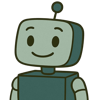
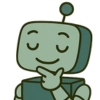
DocMiner 6.0.1 - Robbie animation, theme fixes, aboutDM.pdf
- Added 60x60 transparent Robbie animation (3-frame chin-touching)
- Robbie always visible (static when idle, animates during AI processing)
- Fixed window resize issue - no more shifting when animation starts
- Forced light theme (overrides macOS dark mode)
- Updated to aboutDM.pdf (DocMiner branded tutorial)
- Legacy about.pdf cleanup on startup
- Version bumped to 6.0.1
- Repository renamed from research-buddy to docminer

diff --git a/enhanced_training_interface.py b/enhanced_training_interface.py
@@ -1165,7 +1165,7 @@ class PDFViewer(QWidget):
 class EnhancedTrainingInterface(QMainWindow):
     def __init__(self):
         super().__init__()
-        self.setWindowTitle("DocMiner 5.2 - Professional Positionality Analysis Interface")
+        self.setWindowTitle("DocMiner 6.0.1 - Professional Positionality Analysis Interface")
         # Set reasonable default size but allow user to resize
         self.resize(1200, 800)  # Default size - user can resize as needed
         
@@ -1180,7 +1180,7 @@ class EnhancedTrainingInterface(QMainWindow):
         
         # Default folder in user's home directory
         self.default_pdf_folder = Path.home() / "ExtractorPDFs" 
-        self.readme_pdf_path = self.default_pdf_folder / "about.pdf"
+        self.readme_pdf_path = self.default_pdf_folder / "aboutDM.pdf"
         
         # Settings file in user's config directory (works with AppImage)
         config_dir = Path.home() / ".research_buddy"
@@ -1349,8 +1349,8 @@ class EnhancedTrainingInterface(QMainWindow):
     
     def show_about(self):
         """Show about dialog"""
-        QMessageBox.about(self, "About DocMiner 5.2", 
-                         "🎓 DocMiner 5.2\n\n"
+        QMessageBox.about(self, "About DocMiner 6.0.1", 
+                         "🎓 DocMiner 6.0.1\n\n"
                          "Professional Positionality Analysis Interface\n\n"
                          "Features:\n"
                          "• Paper state persistence\n"
@@ -1392,20 +1392,43 @@ class EnhancedTrainingInterface(QMainWindow):
         folder_btn.setStyleSheet("QPushButton { font-weight: bold; padding: 8px; }")
         header_layout.addWidget(folder_btn)
         
-        # Animated processing indicator (hidden by default, shown during AI analysis)
+        # Spacer to push Robbie to the right
+        header_layout.addStretch()
+        
+        # Animated Robbie processing indicator (always visible, animates during AI analysis)
         self.processing_indicator = QLabel("")
-        self.processing_indicator.setFont(QFont("Arial", 14))
-        self.processing_indicator.setStyleSheet("QLabel { color: #2196F3; padding: 8px; }")
-        self.processing_indicator.setVisible(False)
+        self.processing_indicator.setMinimumSize(60, 60)  # Reserve space but don't force resize
+        self.processing_indicator.setMaximumSize(60, 60)  # Limit size
+        self.processing_indicator.setScaledContents(True)  # Scale image to fit
+        self.processing_indicator.setAlignment(Qt.AlignCenter)  # Center the image
+        self.processing_indicator.setVisible(True)  # Always visible
         header_layout.addWidget(self.processing_indicator)
+        
+        # Load Robbie animation frames
+        self.robbie_frames = []
+        for i in range(1, 4):  # Load 3 transparent frames (60x60)
+            # Check if running as frozen exe (PyInstaller bundle)
+            if getattr(sys, 'frozen', False):
+                frame_path = os.path.join(sys._MEIPASS, 'images', f'robbie_anim_{i}.png')
+            else:
+                frame_path = os.path.join(os.path.dirname(__file__), 'images', f'robbie_anim_{i}.png')
+            
+            if os.path.exists(frame_path):
+                pixmap = QPixmap(frame_path)
+                self.robbie_frames.append(pixmap)
+        
+        # Set initial static frame (first frame, not animating)
+        if self.robbie_frames:
+            self.processing_indicator.setPixmap(self.robbie_frames[0])
+        
+        # Fallback if Robbie frames not found
+        if not self.robbie_frames:
+            print("Warning: Robbie animation frames not found, using text fallback")
         
         # Animation timer for processing indicator
         self.processing_timer = QTimer()
         self.processing_timer.timeout.connect(self.update_processing_animation)
         self.animation_frame = 0
-        
-        # Spacer to keep elements balanced
-        header_layout.addStretch()
         
         layout.addLayout(header_layout)
         
@@ -1757,19 +1780,25 @@ class EnhancedTrainingInterface(QMainWindow):
         self.papers_completed.setText(f"{processed_count} of {total} papers processed")
         
     def update_processing_animation(self):
-        """Update the animated processing indicator"""
-        # Cycle through different spinner animations
-        spinners = [
-            "⚙ ⚙ ⚙",
-            " ⚙ ⚙",
-            "  ⚙",
-            "   ⚙",
-            "    ⚙",
-            "   ⚙",
-            "  ⚙",
-            " ⚙ ⚙",
-        ]
-        self.processing_indicator.setText(spinners[self.animation_frame % len(spinners)])
+        """Update the animated Robbie processing indicator"""
+        if self.robbie_frames:
+            # Cycle through Robbie animation frames
+            frame_index = self.animation_frame % len(self.robbie_frames)
+            self.processing_indicator.setPixmap(self.robbie_frames[frame_index])
+        else:
+            # Fallback to gear text animation if images not loaded
+            spinners = [
+                "⚙ ⚙ ⚙",
+                " ⚙ ⚙",
+                "  ⚙",
+                "   ⚙",
+                "    ⚙",
+                "   ⚙",
+                "  ⚙",
+                " ⚙ ⚙",
+            ]
+            self.processing_indicator.setText(spinners[self.animation_frame % len(spinners)])
+        
         self.animation_frame += 1
         
     def open_pdf_externally(self):
@@ -2209,15 +2238,23 @@ class EnhancedTrainingInterface(QMainWindow):
     
     def ensure_readme_exists(self):
         """Ensure the README PDF exists in the default folder"""
+        # Remove old about.pdf if it exists (legacy cleanup)
+        old_readme = self.default_pdf_folder / "about.pdf"
+        if old_readme.exists():
+            try:
+                old_readme.unlink()
+                print(f"Removed legacy about.pdf")
+            except:
+                pass
+        
+        # Always copy fresh aboutDM.pdf from bundle to ensure latest version
         if not self.readme_pdf_path.exists():
-            # Try to find bundled about.pdf in multiple locations
+            # Try to find bundled aboutDM.pdf in multiple locations
             possible_sources = [
                 # PyInstaller .app bundle location
-                Path(sys._MEIPASS) / "sample_pdfs" / "about.pdf" if getattr(sys, 'frozen', False) else None,
+                Path(sys._MEIPASS) / "sample_pdfs" / "aboutDM.pdf" if getattr(sys, 'frozen', False) else None,
                 # Development location
-                Path(__file__).parent / "sample_pdfs" / "about.pdf",
-                # Archive location (legacy)
-                Path(__file__).parent / "archive" / "documentation" / "about.pdf",
+                Path(__file__).parent / "sample_pdfs" / "aboutDM.pdf",
             ]
             
             source_readme = None
@@ -2229,7 +2266,7 @@ class EnhancedTrainingInterface(QMainWindow):
             if source_readme:
                 import shutil
                 shutil.copy2(source_readme, self.readme_pdf_path)
-                print(f"Copied professional training guide to {self.readme_pdf_path}")
+                print(f"Copied DocMiner training guide to {self.readme_pdf_path}")
             else:
                 # Create README if it doesn't exist
                 try:
@@ -2237,12 +2274,12 @@ class EnhancedTrainingInterface(QMainWindow):
                     create_readme_pdf(self.readme_pdf_path)
                     print(f"Created README at {self.readme_pdf_path}")
                 except:
-                    print(f"Could not create README - about.pdf not found in bundle")
+                    print(f"Could not create README - aboutDM.pdf not found in bundle")
     
     def find_readme_index(self):
-        """Find the index of the about.pdf file in papers list"""
+        """Find the index of the aboutDM.pdf file in papers list"""
         for i, paper in enumerate(self.papers_list):
-            if "about.pdf" in paper.lower():
+            if "aboutdm.pdf" in paper.lower() or "about.pdf" in paper.lower():
                 return i
         return -1
     
@@ -2254,15 +2291,8 @@ class EnhancedTrainingInterface(QMainWindow):
                     settings = json.load(f)
                     self.pdf_folder = settings.get("pdf_folder", str(self.default_pdf_folder))
                     
-                    # Load window geometry if saved
-                    window_geometry = settings.get("window_geometry")
-                    if window_geometry:
-                        self.setGeometry(
-                            window_geometry.get("x", 100),
-                            window_geometry.get("y", 100),
-                            window_geometry.get("width", 1400),
-                            window_geometry.get("height", 1000)
-                        )
+                    # Don't restore window geometry - always use default size
+                    # This prevents full-screen windows on subsequent launches
         except Exception as e:
             print(f"Could not load settings: {e}")
             self.pdf_folder = str(self.default_pdf_folder)
@@ -2371,8 +2401,7 @@ class EnhancedTrainingInterface(QMainWindow):
         self.analysis_progress.setVisible(True)
         self.analysis_progress.setValue(0)
         
-        # Start animated processing indicator
-        self.processing_indicator.setVisible(True)
+        # Start animated processing indicator (Robbie is always visible, just animate it)
         self.animation_frame = 0
         self.processing_timer.start(200)  # Update every 200ms
         
@@ -2413,9 +2442,10 @@ class EnhancedTrainingInterface(QMainWindow):
             QApplication.processEvents()
 
         def on_analysis_finished(result, paper_name):
-            # Stop animation
+            # Stop animation and reset to static first frame
             self.processing_timer.stop()
-            self.processing_indicator.setVisible(False)
+            if self.robbie_frames:
+                self.processing_indicator.setPixmap(self.robbie_frames[0])
             
             self.analysis_progress.setVisible(False)
             findings_text = self.format_ai_findings(result, paper_name)
@@ -2430,9 +2460,10 @@ class EnhancedTrainingInterface(QMainWindow):
             self.initial_analysis_btn.setEnabled(True)
 
         def on_analysis_error(e):
-            # Stop animation
+            # Stop animation and reset to static first frame
             self.processing_timer.stop()
-            self.processing_indicator.setVisible(False)
+            if self.robbie_frames:
+                self.processing_indicator.setPixmap(self.robbie_frames[0])
             
             self.analysis_progress.setVisible(False)
             error_msg = str(e).lower()
@@ -2711,6 +2742,27 @@ def main():
     
     # Set application style
     app.setStyle('Fusion')
+    
+    # Force light theme with custom palette
+    from PySide6.QtGui import QPalette, QColor
+    palette = QPalette()
+    
+    # Window and base colors (light grey background)
+    palette.setColor(QPalette.Window, QColor(240, 240, 240))
+    palette.setColor(QPalette.WindowText, QColor(0, 0, 0))
+    palette.setColor(QPalette.Base, QColor(255, 255, 255))
+    palette.setColor(QPalette.AlternateBase, QColor(245, 245, 245))
+    palette.setColor(QPalette.ToolTipBase, QColor(255, 255, 220))
+    palette.setColor(QPalette.ToolTipText, QColor(0, 0, 0))
+    palette.setColor(QPalette.Text, QColor(0, 0, 0))
+    palette.setColor(QPalette.Button, QColor(240, 240, 240))
+    palette.setColor(QPalette.ButtonText, QColor(0, 0, 0))
+    palette.setColor(QPalette.BrightText, QColor(255, 0, 0))
+    palette.setColor(QPalette.Link, QColor(0, 0, 255))
+    palette.setColor(QPalette.Highlight, QColor(42, 130, 218))
+    palette.setColor(QPalette.HighlightedText, QColor(255, 255, 255))
+    
+    app.setPalette(palette)
     
     window = EnhancedTrainingInterface()
     window.show()

diff --git a/utils/make_robbie_transparent.py b/utils/make_robbie_transparent.py
@@ -1,0 +1,58 @@
+#!/usr/bin/env python3
+"""
+Make Robbie images have transparent backgrounds instead of white
+Select only frames where Robbie is touching his chin for smoother animation
+Resize to 60x60 pixels
+"""
+from PIL import Image
+import os
+
+# Paths
+script_dir = os.path.dirname(os.path.abspath(__file__))
+project_root = os.path.dirname(script_dir)
+images_dir = os.path.join(project_root, 'images')
+
+print("🎨 Making Robbie backgrounds transparent and resizing to 60x60...")
+
+# Select frames where Robbie is touching his chin (consecutive for smooth animation)
+# Based on the 3x3 grid, frames 4-6 (middle row) show the chin-touch gesture best
+selected_frames = [4, 5, 6]  # Middle row - consistent chin-touching pose
+
+for i, frame_num in enumerate(selected_frames, start=1):
+    input_path = os.path.join(images_dir, f'robbie_{frame_num}_100x100.png')
+    output_path = os.path.join(images_dir, f'robbie_anim_{i}.png')
+    
+    if not os.path.exists(input_path):
+        print(f"  ⚠  Frame {frame_num} not found, skipping...")
+        continue
+    
+    # Load image
+    img = Image.open(input_path).convert("RGBA")
+    
+    # Get pixel data
+    datas = img.getdata()
+    
+    # Replace white/light backgrounds with transparency
+    new_data = []
+    for item in datas:
+        # If pixel is white or very light (close to white), make it transparent
+        if item[0] > 240 and item[1] > 240 and item[2] > 240:
+            new_data.append((255, 255, 255, 0))  # Transparent
+        else:
+            new_data.append(item)  # Keep original
+    
+    # Update image data
+    img.putdata(new_data)
+    
+    # Resize to 60x60
+    img = img.resize((60, 60), Image.LANCZOS)
+    
+    # Save with transparency
+    img.save(output_path, "PNG")
+    print(f"  ✅ Created robbie_anim_{i}.png (from frame {frame_num}) - 60x60 with transparent background")
+
+print(f"\n🎉 Created 3-frame animation with transparent backgrounds!")
+print(f"📁 Location: {images_dir}")
+print("\nNew files:")
+for i in range(1, 4):
+    print(f"  - robbie_anim_{i}.png")

diff --git a/utils/split_robbie_panel.py b/utils/split_robbie_panel.py
@@ -1,0 +1,54 @@
+#!/usr/bin/env python3
+"""
+Split robbie_panel.png into 9 individual animation frames (3x3 grid)
+"""
+from PIL import Image
+import os
+
+# Paths
+script_dir = os.path.dirname(os.path.abspath(__file__))
+project_root = os.path.dirname(script_dir)
+panel_path = os.path.join(project_root, 'images', 'robbie_panel.png')
+output_dir = os.path.join(project_root, 'images')
+
+print(f"🎨 Splitting Robbie panel into 9 animation frames...")
+print(f"📂 Input: {panel_path}")
+
+# Load the panel
+panel = Image.open(panel_path)
+panel_width, panel_height = panel.size
+print(f"📐 Panel size: {panel_width}x{panel_height}")
+
+# Calculate frame size (panel is 3x3 grid)
+frame_width = panel_width // 3
+frame_height = panel_height // 3
+print(f"📐 Each frame: {frame_width}x{frame_height}")
+
+# Extract each frame
+frame_num = 1
+for row in range(3):
+    for col in range(3):
+        # Calculate crop box (left, top, right, bottom)
+        left = col * frame_width
+        top = row * frame_height
+        right = left + frame_width
+        bottom = top + frame_height
+        
+        # Crop the frame
+        frame = panel.crop((left, top, right, bottom))
+        
+        # Resize to 100x100 for consistency with existing frames
+        frame_resized = frame.resize((100, 100), Image.Resampling.LANCZOS)
+        
+        # Save
+        output_path = os.path.join(output_dir, f'robbie_{frame_num}_100x100.png')
+        frame_resized.save(output_path, 'PNG', optimize=True)
+        
+        print(f"  ✅ Frame {frame_num}: robbie_{frame_num}_100x100.png (row {row}, col {col})")
+        frame_num += 1
+
+print(f"\n🎉 Successfully created 9 Robbie animation frames!")
+print(f"📁 Location: {output_dir}")
+print(f"\nFiles created:")
+for i in range(1, 10):
+    print(f"  - robbie_{i}_100x100.png")
